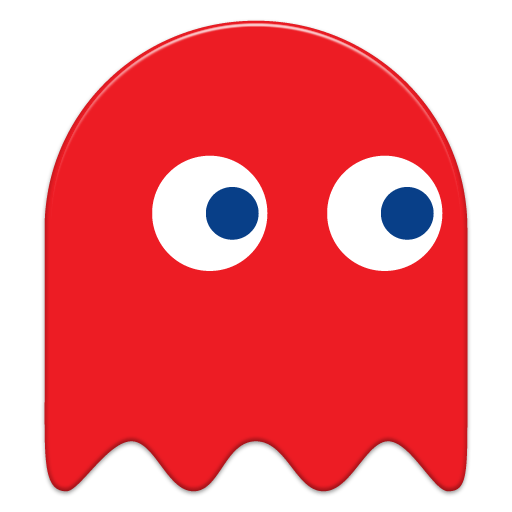
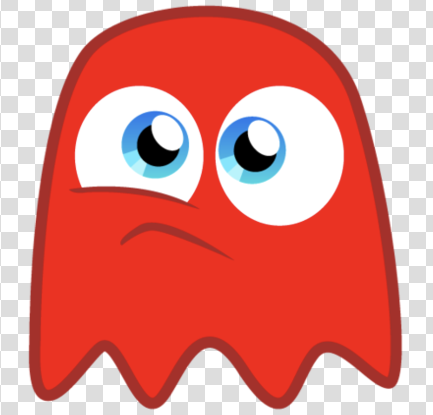
Added styles and the rest of the ghosts

diff --git a/main.css b/main.css
@@ -9,10 +9,11 @@ body {
   align-items: center;
   flex-direction: column;
   margin: 0;
+  background: linear-gradient(to top left, rgb(7, 7, 7), rgb(15, 15, 16));
 }
 header, h1 {
   
-  color: coral;
+  color: rgb(237, 203, 13);
   margin: 0;
   padding: 50px;
   
@@ -21,27 +22,25 @@ header, h1 {
 .grid {
   display: flex;
   flex-direction: row;
-  border: 1px solid grey;
+  border: 3px solid #228DFF;
   width: 600px;
   height: 600px;
   flex-wrap: wrap;
-}
+  -webkit-transition: all 0.5s;
+  -moz-transition: all 0.5s;
+  transition: all 0.5s;
+  -webkit-animation: neon2 1.3s ease-in-out infinite alternate;
+  -moz-animation: neon2  1.3s ease-in-out infinite alternate;
+  animation: neon2 1.3s ease-in-out infinite alternate;
+} 
 
 .grid div {
   width: 5%;
   height: 5%;
-  border: 1px solid rgb(193, 193, 193);
+  border: 1px solid rgba(134, 127, 127, 0.036);
   font-size: 5px;
+  
 }
-.player {
-  background-image: url('/images/player.jpg');
-  background-size: cover;
-}
-.blinky {
-  background-image: url('/images/blinky.png');
-  background-size: cover;
-}
-
 
 .builder {
   width: 100%;
@@ -54,19 +53,24 @@ header, h1 {
   padding: 10px;
 }
 .blank {
-  background-color: black;
-  color: aliceblue;
+  background: linear-gradient(to top left, rgb(7, 7, 7), rgb(15, 15, 16));
+  color: rgba(240, 248, 255, 0.057);
   padding: 10px;
 }
 .wall{
-  background-color: darkblue;
-  color: white;
+  background-color: rgb(3, 3, 43);
+  color: rgba(255, 255, 255, 0.091);
+  border: 1px solid #228DFF;
+  background: linear-gradient(to top right, rgb(3, 1, 37), rgb(28, 7, 103));
+
 }
 .teleport {
-  background-color: aquamarine;
+  background: linear-gradient(to top left, rgb(10, 6, 89), rgb(11, 81, 203));
 }
 .ghostDoor {
-  background-color: brown;
+  border-top: 5px solid brown!important;
+  background: linear-gradient(to top left, rgb(7, 7, 7), rgb(15, 15, 16));
+
 }
 .food {
   border: 15px solid black !important;
@@ -90,4 +94,43 @@ header, h1 {
 .levelarray{
   max-width: 80%;
   overflow-wrap: break-word;
+}
+.player {
+  background-image: url('/images/player.jpg');
+  background-size: cover;
+}
+.blinky {
+  background-image: url('/images/blinky.png');
+  background-size: cover;
+}
+.pinky {
+  background-image: url('/images/pinky.png');
+  background-size: cover;
+}
+.funky {
+  background-image: url('/images/funky.png');
+  background-size: cover;
+}
+.kinky {
+  background-image: url('/images/kinky.png');
+  background-size: cover;
+}
+/*glow for webkit*/
+
+@keyframes neon1 {
+  from {
+    box-shadow: 0 0 10px rgb(240, 185, 7), 0 0 20px #fff, 0 0 30px #fff, 0 0 40px #FF1177, 0 0 70px #FF1177, 0 0 80px #FF1177, 0 0 100px #FF1177, 0 0 150px #FF1177;
+  }
+  to {
+    box-shadow: 0 0 5px rgb(228, 164, 0), 0 0 10px #fff, 0 0 15px #fff, 0 0 20px #FF1177, 0 0 35px #FF1177, 0 0 40px #FF1177, 0 0 50px #FF1177, 0 0 75px #FF1177;
+  }
+}
+
+@-webkit-keyframes neon2 {
+  from {
+    box-shadow: 0 0 15px rgb(233, 150, 7), 0 0 20px #fff, 0 0 30px #fff, 0 0 40px #228DFF, 0 0 70px #228DFF, 0 0 80px #228DFF, 0 0 100px #228DFF, 0 0 150px #228dff79;
+  }
+  to {
+    box-shadow: 0 0 5px rgba(167, 9, 9, 0.582), 0 0 10px #fff, 0 0 15px #fff, 0 0 20px #228DFF, 0 0 35px #228DFF, 0 0 40px #228DFF, 0 0 50px #228DFF, 0 0 75px #228DFF;
+  }
 }

diff --git a/app.js b/app.js
@@ -25,16 +25,16 @@ builder.addEventListener('click', (event) => {
   srcClass = event.path[0].innerHTML
 
 })
-grid.addEventListener('click', (event) => {
-  console.log(targetID = event.path[0].innerHTML)
-  console.log(targetID, srcClass, '(target, src)')
-  console.log(levels.mapClassArray[targetID])
-  levels.mapClassArray[targetID] = srcClass
-  cellsArray[targetID].classList.value = `${srcClass}`
-  const showNewLevel = document.querySelector('.levelarray')
-  showNewLevel.innerHTML = levels.mapClassArray//JSON.stringify()  
+// grid.addEventListener('click', (event) => {
+//   console.log(targetID = event.path[0].innerHTML)
+//   console.log(targetID, srcClass, '(target, src)')
+//   console.log(levels.mapClassArray[targetID])
+//   levels.mapClassArray[targetID] = srcClass
+//   cellsArray[targetID].classList.value = `${srcClass}`
+//   const showNewLevel = document.querySelector('.levelarray')
+//   showNewLevel.innerHTML = levels.mapClassArray//JSON.stringify()  
 
-})
+// })
 
 mapObjects.forEach(element => {
   const objectDiv = document.createElement('div')
@@ -159,9 +159,9 @@ function playerMakeMove() {
       checkMove('player', 'down')
     }
 
-    setTimeout(() => {
+  //  setTimeout(() => {
       makeMove('player')
-    }, 1000)
+   // }, 1000)
 
   })
 }

diff --git a/index.html b/index.html
@@ -18,8 +18,8 @@
   </header>
 <section>
   <div class="builder hide"><button class='addlevel'>Add New Level</button></div>
-  <form class='builderform'>
-  </form>
+  <!-- <form class='builderform'>
+  </form> -->
   <div class="levelarray"></div>
   <div class="grid"></div>
 </section>
